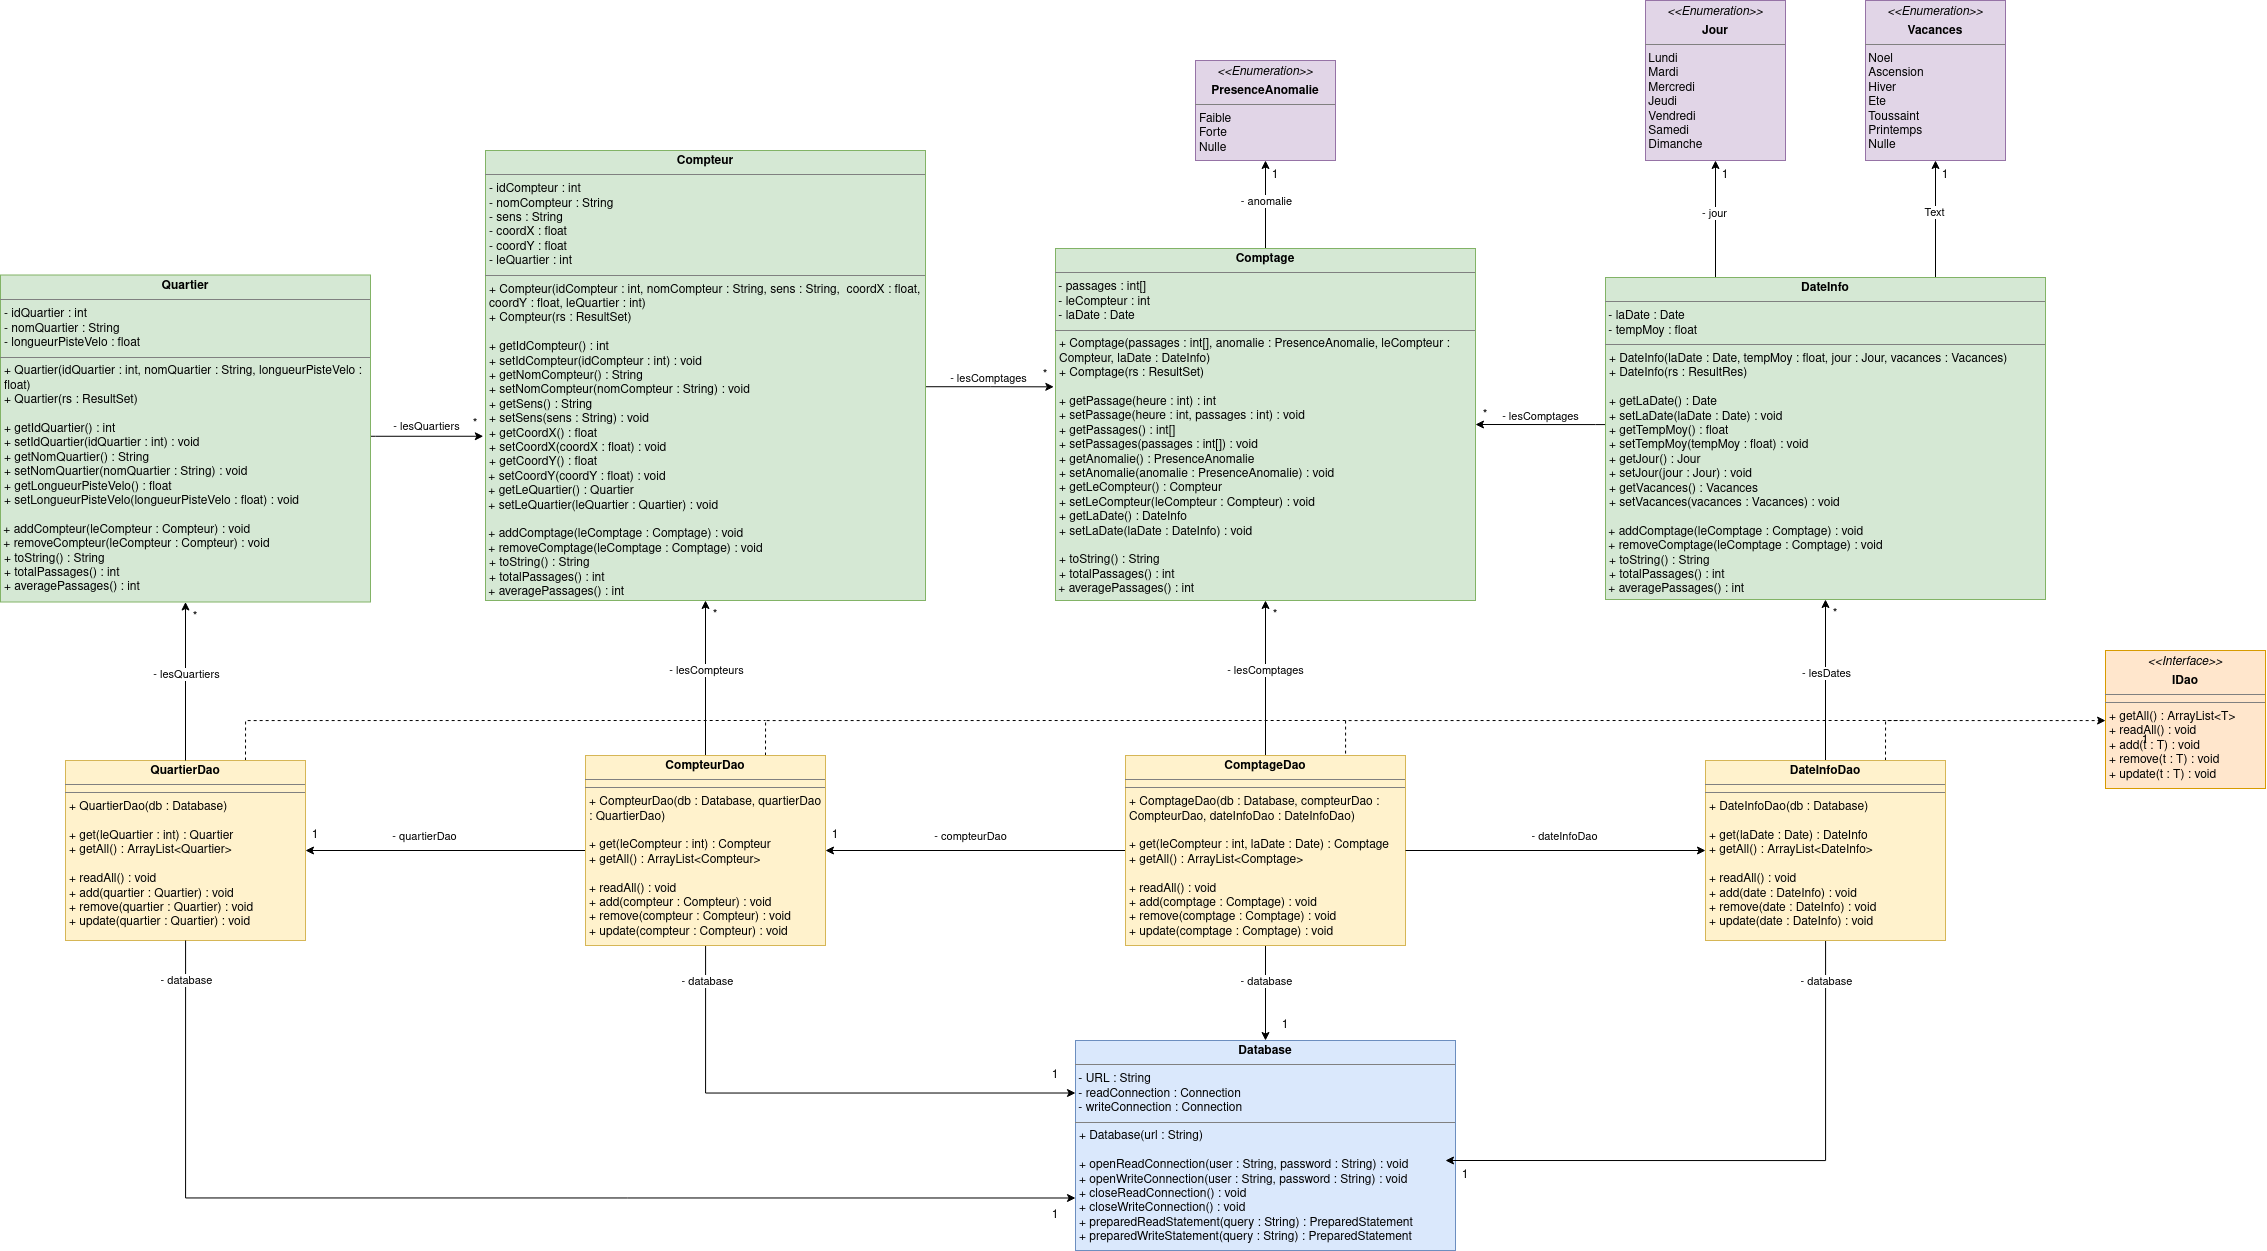
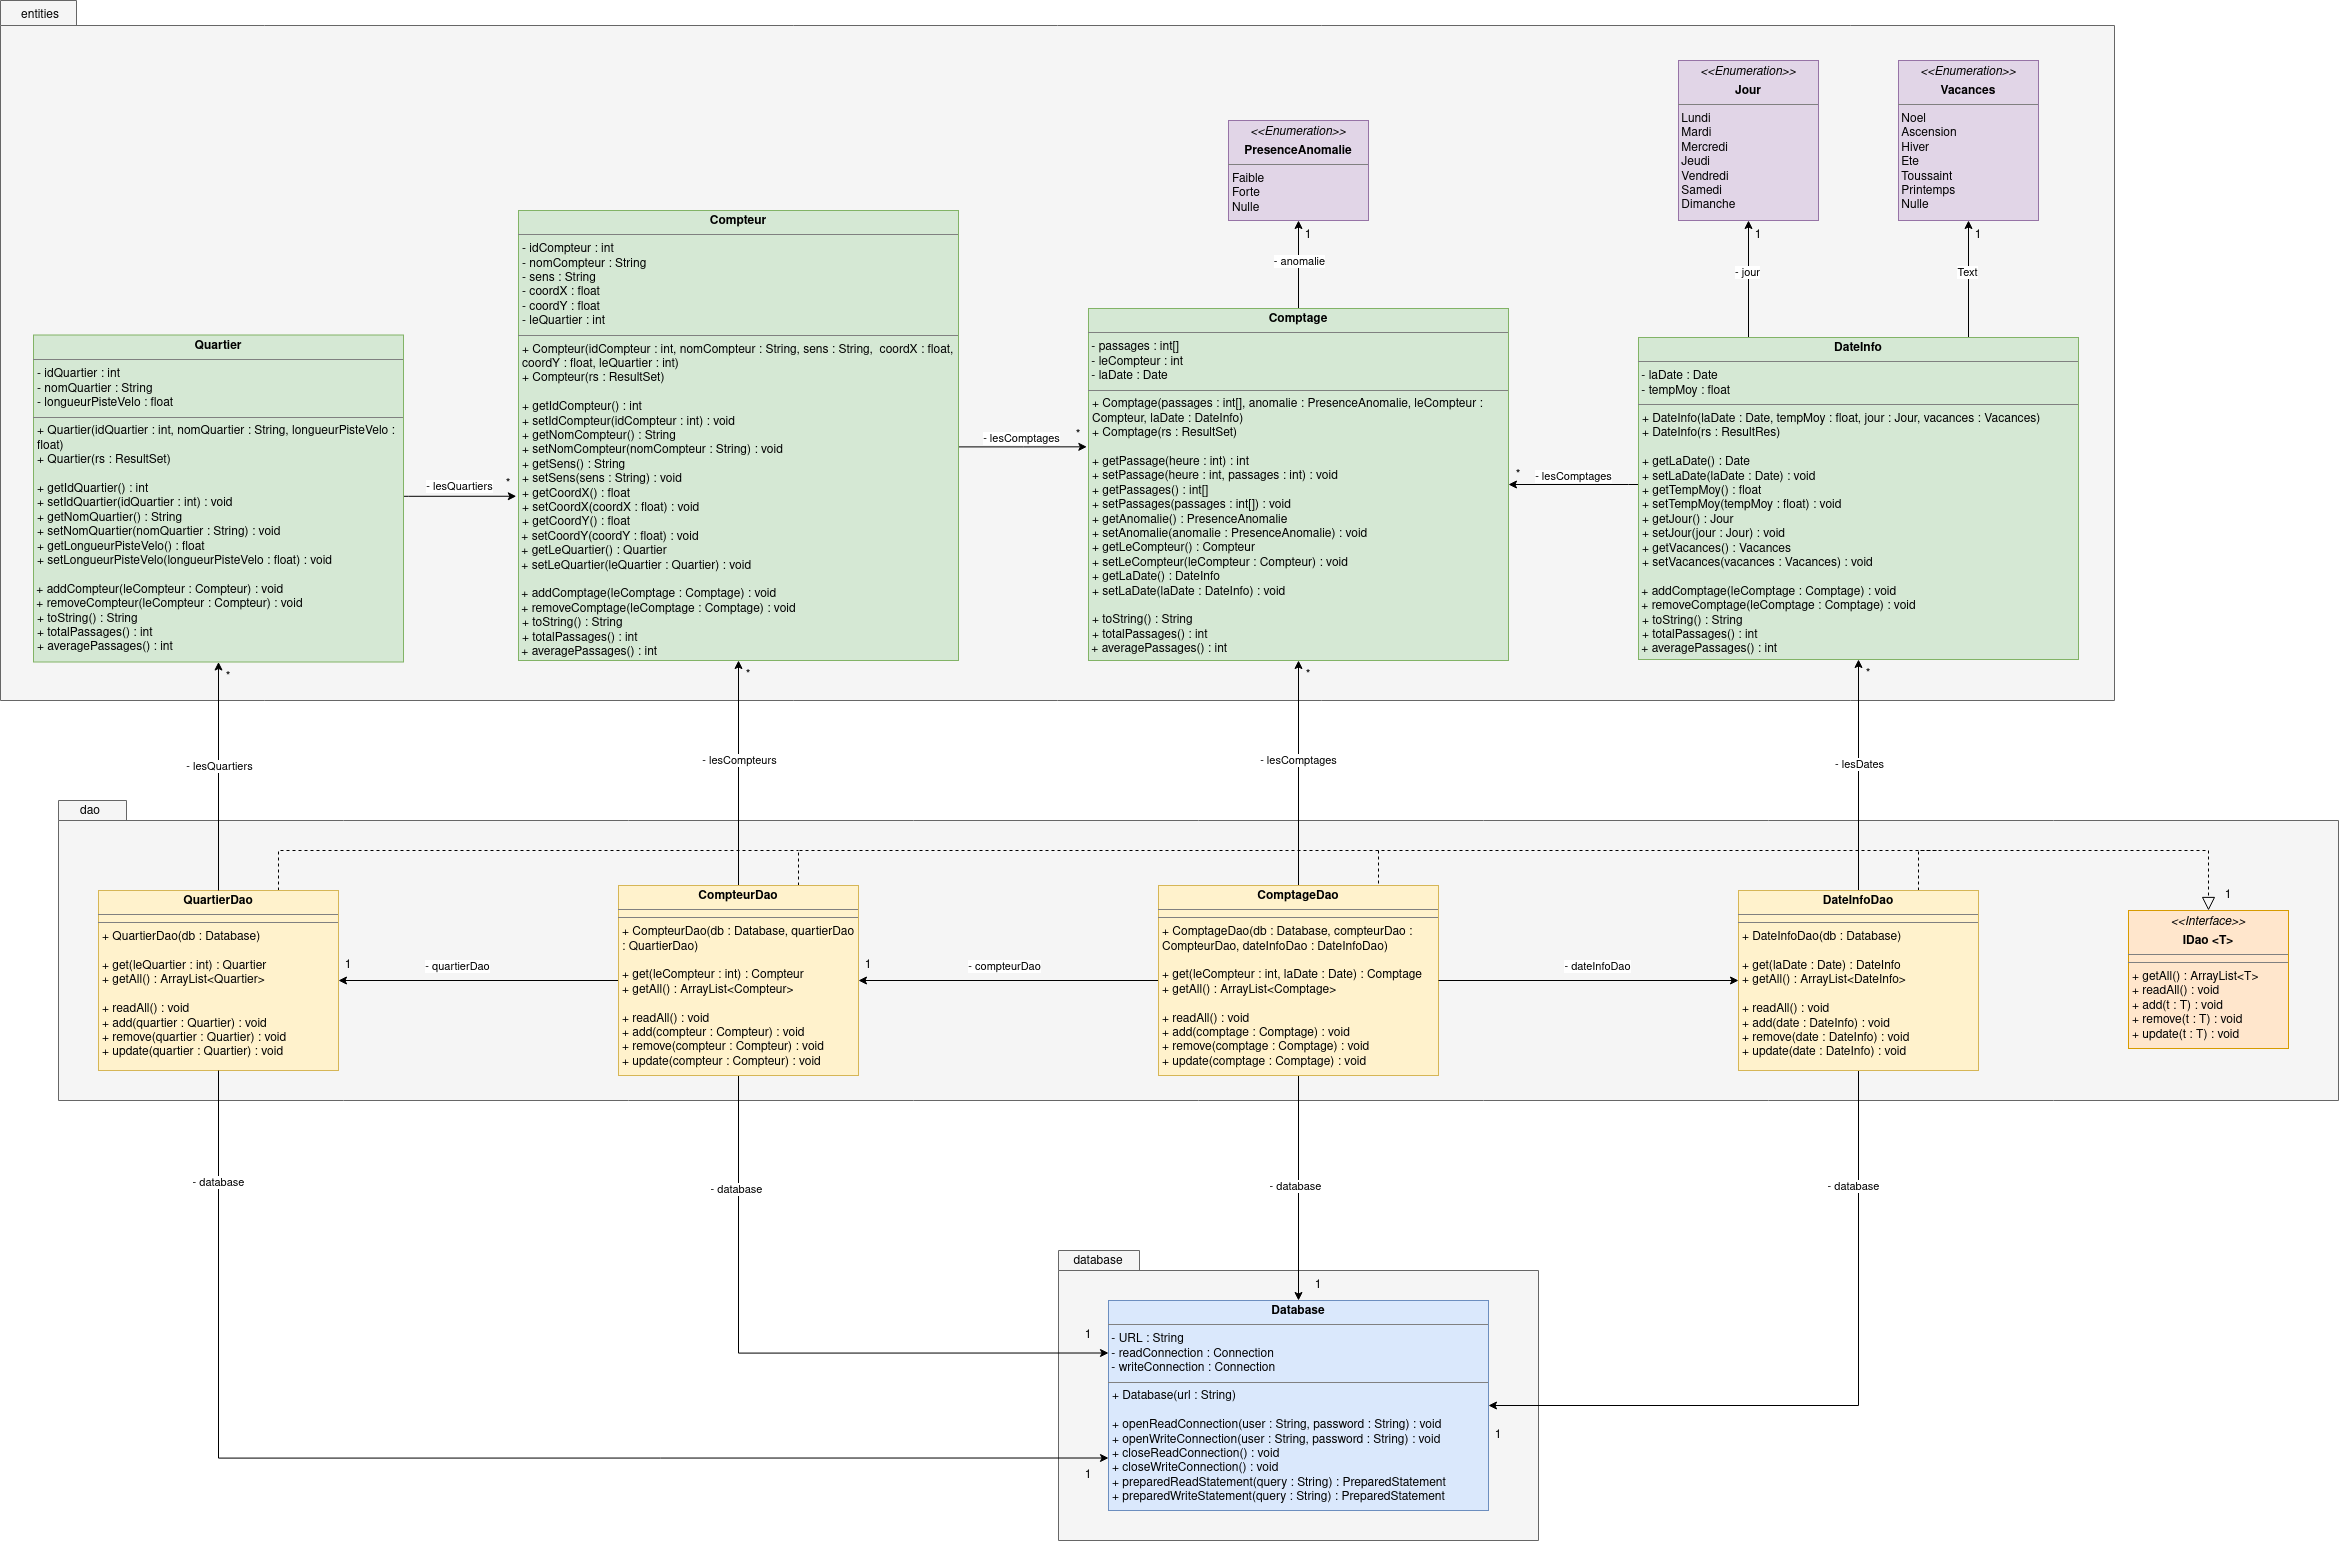
division en packages

diff --git a/src/TestDatabase.java b/src/TestDatabase.java
@@ -1,7 +1,9 @@
 import java.sql.SQLException;
 import java.util.ArrayList;
 
-import modele.*;
+import modele.dao.*;
+import modele.database.*;
+import modele.entities.*;
 
 public class TestDatabase {
     public static void main(String[] args) {
